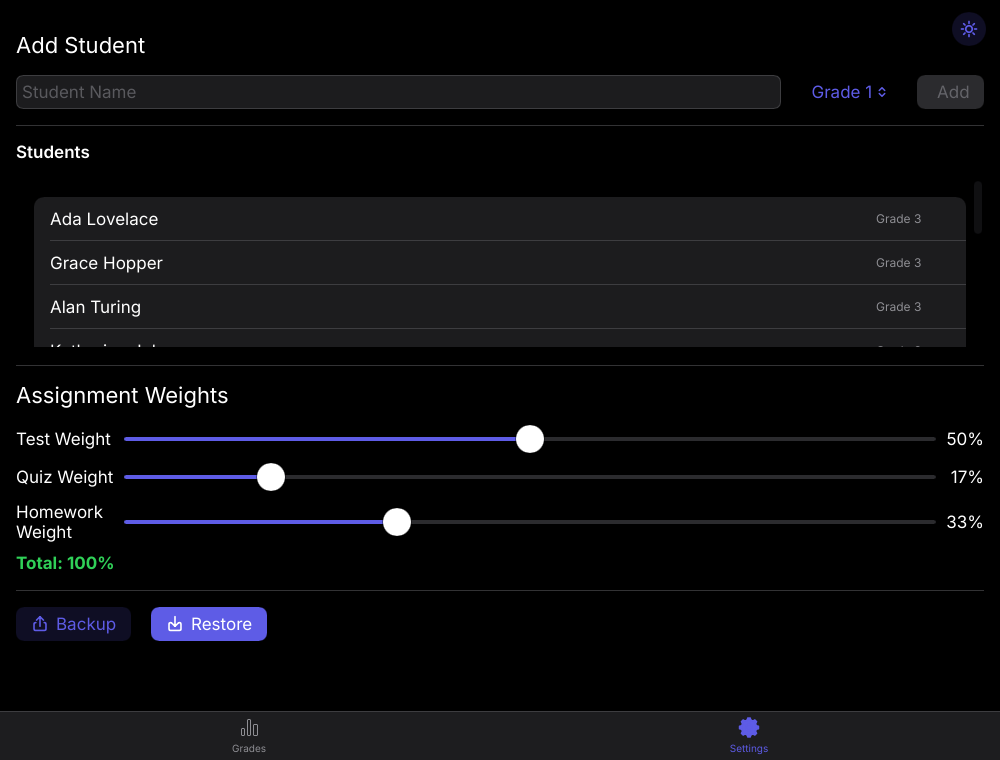
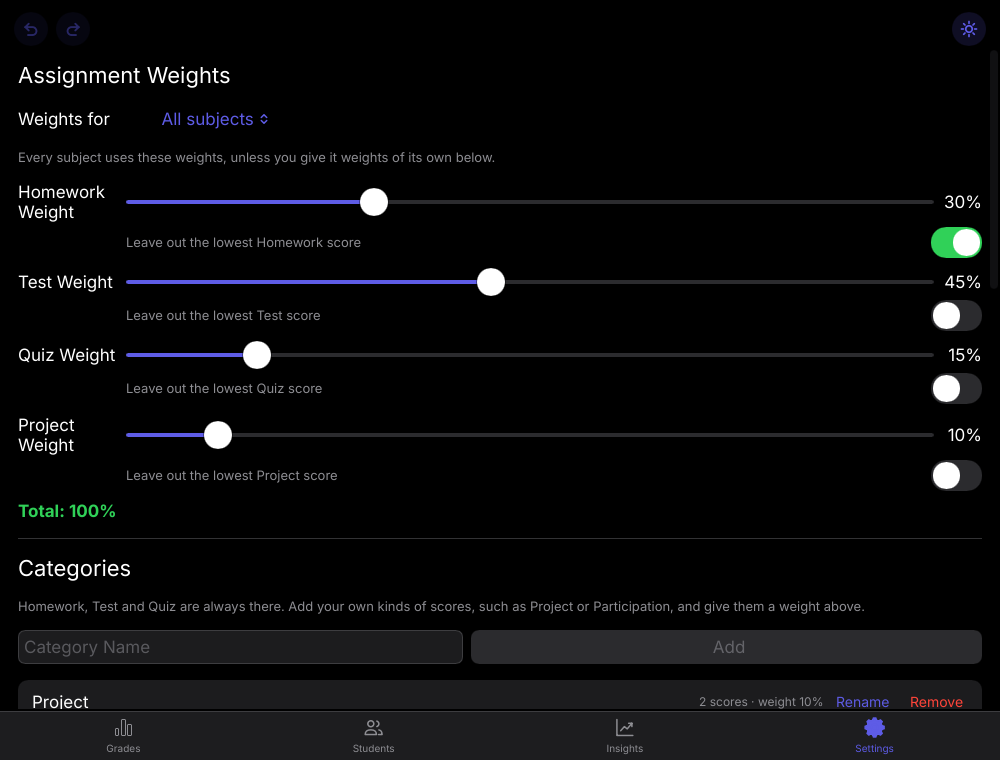
Refresh the README, screenshots and demo for the new tools
The README now covers the new screens, how scores are typed, the keyboard shortcuts, the
automatic backups and school years, spreadsheets and report cards, the opt-in update check
and the winget and Homebrew files. The screenshots show the Grades, Students, Insights and
Settings screens and the two dialogs, in light and dark, and the two demo recordings are of
the current app.

diff --git a/README.md b/README.md
@@ -1,4 +1,4 @@
-<!-- When you replace an image or GIF below, bump its ?v= number. VS Code's Markdown preview keeps showing the old picture while its URL is unchanged. -->
+<!-- When you replace an image or GIF below, bump its ?v= number on all of them. VS Code's Markdown preview keeps showing the old picture while its URL is unchanged. -->
 <div align="center">
 
 <img src="assets/icons/icon-128.png" alt="GradeBook icon" width="96" height="96">
@@ -6,7 +6,7 @@
 # GradeBook
 
 **A fast, friendly gradebook for teachers and homeschoolers.**<br>
-Weighted averages, letter grades and one-click backups, as a native app for Windows, macOS and Linux.
+Weighted averages, letter grades, insights, report cards and automatic backups, as a native app for Windows, macOS and Linux.
 
 [![Build](https://github.com/JMTDI/GradeBook/actions/workflows/desktop.yml/badge.svg)](https://github.com/JMTDI/GradeBook/actions/workflows/desktop.yml)
 ![Platforms: Windows, macOS and Linux](https://img.shields.io/badge/platforms-Windows%20%7C%20macOS%20%7C%20Linux-5856D6)
@@ -20,21 +20,29 @@ Weighted averages, letter grades and one-click backups, as a native app for Wind
 [Features](#features) · [Install](#install) · [Using the app](#using-the-app) · [Your data](#your-data) · [Build from source](#build-from-source)
 
 <picture>
-  <source media="(prefers-color-scheme: dark)" srcset="docs/demo-dark.gif?v=2">
-  <img src="docs/demo-light.gif?v=2" alt="GradeBook in action: a Homework, a Test and a Quiz grade are added in that order and the averages update, changing the weights in Settings updates them again, and the button in the corner switches between light and dark" width="760">
+  <source media="(prefers-color-scheme: dark)" srcset="docs/demo-dark.gif?v=4">
+  <img src="docs/demo-light.gif?v=4" alt="GradeBook in action: scores are added and Enter moves on to the next student, a click shows what a student needs on the next test, a deleted score comes back with Undo, the Insights screen sums up the class, the lowest homework score is left out of the average from Settings, and the button in the corner switches between light and dark" width="760">
 </picture>
 
 </div>
 
 ## Features
 
-- 📚 **Organised the way you teach.** Grade levels 1–10, six periods and 20 subjects, one class at a time.
-- ⚖ **Weighted averages.** Tests, quizzes and homework count as much as you decide (50 / 17 / 33 to begin with). The weights re-balance on their own for students who don't have every type of grade yet.
+- 📚 **Organised the way you teach.** Grade levels 1–10 (add Kindergarten and grades 11–20 if you need them), six periods and 20 subjects plus your own, one class at a time.
+- ⚖ **Weighted averages.** Homework, tests, quizzes and categories of your own, such as Projects, count as much as you decide (50 / 17 / 33 to begin with), in every subject or in one. The weights re-balance on their own for students who don't have every kind of score yet.
+- 🧮 **Scores the way teachers write them.** Points like `18/20`, extra credit like `+5`, excused scores (`EX`), and an option to leave out the lowest score of a kind.
 - 🔤 **Letter grades that add up.** From A+ to F, including fractional scores: 91.5 is a B and 99.5 is an A.
+- 🎯 **"What do I need?"** Pick a letter and see the score a student needs on the next test, quiz or homework to reach it.
+- 📊 **Insights.** The class average, the best and the lowest, how the letters are spread, who needs attention, and how the class average moved over the periods.
+- 🧾 **Report cards.** Every subject and period of a student on one page, saved as a spreadsheet or opened as a page you print.
+- ⌨ **Quick to fill in.** Enter adds a score and moves on to the next student, and a class list pasted from a document or spreadsheet adds all its students at once.
+- ↩ **Undo and redo.** For everything you change, from the keyboard or with the buttons in the corner. A bar offers to take back what you just did.
+- 🛟 **Your data is safe.** Every change is saved at once, in a way that can't leave a half-written file behind. The first start of each day keeps a copy, the latest seven are kept, and Backup and Restore move the whole gradebook as one file.
+- 🗓 **A new school year in one click.** It keeps a copy of the year that ends, clears the scores and moves the students up a grade.
 - 🌗 **Light and dark.** It follows your system's setting, and a button in the corner switches it. GradeBook remembers your choice.
-- 💾 **Saves as you go.** Every change is written to disk straight away, in a way that can't leave a half-written file behind.
-- 🛟 **Backup and Restore.** The whole gradebook goes into one JSON file, and a restore keeps a safety copy of whatever it replaces.
 - ⚡ **Light on your computer.** A native Rust app built with [Slint](https://slint.dev): no browser engine and no GPU needed. On Linux the window opens in about half a second and the app idles at around 20 MB of memory.
+- 🔒 **Private.** It works offline and never sends your data anywhere. The one thing that goes online is the look for a new version, which reads a version number from GitHub and sends nothing of yours. You can turn it off.
+- 🔔 **Tells you about updates.** GradeBook looks on GitHub for a newer release each time it starts. When there is one, a bar with a **Download** button appears above the tabs.
 - 📦 **Installers for every system.** A Windows `.exe`, a macOS universal `.dmg`, and a Linux `.deb` and AppImage.
 
 ## Install
@@ -53,52 +61,154 @@ Download the installer for your system from the [Releases page](https://github.c
 > - **Windows:** SmartScreen may say "Windows protected your PC". Choose **More info → Run anyway**.
 > - **macOS:** the app isn't notarized, so the first time, right-click it and choose **Open** (or run `xattr -dr com.apple.quarantine /Applications/GradeBook.app`).
 
+GradeBook tells you when a new version is out (see [Updates](#updates)). Close it, then install the
+new version the way you installed the first one. Your gradebook is kept in its own folder, which
+installing doesn't touch.
+
 Backup and Restore open your system's file chooser. On Linux that is the desktop portal
 (`xdg-desktop-portal`), falling back to `zenity`.
 
 ## Using the app
 
-Two screens, with a tab bar at the bottom to switch between them.
+Four screens, with a tab bar at the bottom to switch between them. In the top-left corner, **Undo**
+and **Redo** take back and bring back your changes; in the top-right corner, the moon or sun button
+switches between light and dark.
 
 ### Grades
 
-Choose a grade level (1–10), a period (1–6) and a subject (20 to choose from). Every student in that
-grade level gets a row. Choose **Homework**, **Test** or **Quiz**, type a score (decimals work:
-`92.5`, or `92,5`) and click **Add**. Scores appear as chips tinted by type (grey for homework, red
-for tests, blue for quizzes) with their letter grade, and the red × beside a score deletes it. Under
-the chips is the student's weighted average with its letter grade, and the class average is at the
-bottom.
+Choose a grade level, a period (1–6) and a subject. Every student in that grade level gets a row.
+Choose **Homework**, **Test** or **Quiz** (or a category of your own), type a score and press
+<kbd>Enter</kbd>: the score is added and the keyboard moves on to the next student's field, so a
+whole class goes in without touching the mouse.
+
+A score can be typed as:
+
+| Type | To mean |
+|---|---|
+| `92.5` or `92,5` | 92.5 percent |
+| `18/20` | points: 18 out of 20, which is 90 percent |
+| `+5` | extra credit: five bonus points added to the total of its kind |
+| `EX` | excused: shown, but not counted for or against the student |
+
+Scores appear as chips tinted by kind (grey for homework, red for tests, blue for quizzes, and a
+colour of its own for each category you add) with their letter grade. Click a chip to change its
+score or kind, or to delete it; the red × beside it deletes it at once. Under the chips is the
+student's weighted average with its letter grade, and the class average is at the bottom.
+
+Two buttons sit under each student:
+
+- **What do I need?** Pick the average you want, such as a B, and choose homework, test or quiz:
+  GradeBook tells you the lowest score on the next one that gets there. If nothing can, it says so.
+- **Report Card** shows every subject the student has scores in, period by period, with their
+  overall average. **Save as CSV** writes it as a spreadsheet and **Printable Report** opens it as a
+  page in your browser, where you can print it or save it as a PDF.
 
 <p align="center">
   <picture>
-    <source media="(prefers-color-scheme: dark)" srcset="docs/screenshots/grades-dark.png?v=2">
-    <img src="docs/screenshots/grades.png?v=2" alt="The Grades screen: every student in a grade level with their scores, averages and letter grades" width="640">
+    <source media="(prefers-color-scheme: dark)" srcset="docs/screenshots/grades-dark.png?v=4">
+    <img src="docs/screenshots/grades.png?v=4" alt="The Grades screen: every student in a grade level with their scores, averages and letter grades, and a struck-through score that is left out of the average" width="640">
+  </picture>
+</p>
+
+<p align="center">
+  <picture>
+    <source media="(prefers-color-scheme: dark)" srcset="docs/screenshots/needed-dark.png?v=4">
+    <img src="docs/screenshots/needed.png?v=4" alt="What does Grace Hopper need? The score she needs on her next test to reach a C+" width="400">
+  </picture>
+  <picture>
+    <source media="(prefers-color-scheme: dark)" srcset="docs/screenshots/report-dark.png?v=4">
+    <img src="docs/screenshots/report.png?v=4" alt="A report card: every subject, period by period, with the overall average" width="400">
+  </picture>
+</p>
+
+### Students
+
+Add a student with a name and a grade level, or use **Paste a Class List** to add a whole class at
+once: one name per line, with numbers or bullets at the start of a line ignored. A column copied
+from a spreadsheet works too, and you see how many students will be added before you confirm.
+
+The pencil beside a student changes their name or grade level. To delete a student, hover over the
+row and click the red minus (or focus the row and press <kbd>Delete</kbd>), then confirm with the
+red **Delete** button. Deleting a student deletes their scores too, and **Undo** brings them back.
+
+<p align="center">
+  <picture>
+    <source media="(prefers-color-scheme: dark)" srcset="docs/screenshots/students-dark.png?v=4">
+    <img src="docs/screenshots/students.png?v=4" alt="The Students screen: add a student or paste a class list, and the list of students" width="640">
+  </picture>
+</p>
+
+### Insights
+
+A summary of the class you chose on the Grades screen: the class average, the highest and the lowest
+average (with whose they are), and the median; how many students have each letter, A to F; the
+students under an average you choose with the slider (70 to begin with, and GradeBook remembers it);
+and the class average in each of the six periods, to see whether the class is going up or down.
+
+<p align="center">
+  <picture>
+    <source media="(prefers-color-scheme: dark)" srcset="docs/screenshots/insights-dark.png?v=4">
+    <img src="docs/screenshots/insights.png?v=4" alt="The Insights screen: the class average, the best and the lowest, how the letters are spread, who needs attention, and the class average by period" width="640">
   </picture>
 </p>
 
 ### Settings
 
-Add students (a name and a grade level), set the weights of tests, quizzes and homework
-(50 / 17 / 33 to begin with; the total is shown), and use Backup and Restore. To delete a student,
-hover over the row and click the red minus (or focus the row and press <kbd>Delete</kbd>), then
-confirm with the red **Delete** button.
+- **Assignment weights.** Set how much homework, tests, quizzes and each category of your own count
+  (50 / 17 / 33 for the first three to begin with; the total is shown). They apply to every subject
+  until you choose one subject in the list at the top and give it weights of its own: Spelling
+  might count quizzes more than Math does. **Use the Default Weights** takes a subject back. Each
+  kind also has a switch to **leave out the lowest score** of that kind in the averages, which
+  shows on the Grades screen as a struck-through chip.
+- **Categories.** Add kinds of scores of your own, such as Project or Participation. A new one has no
+  weight until you give it one. You can rename or remove them; removing one that has scores asks first.
+- **Subjects.** The 20 usual subjects are always there. Add the ones you teach that aren't.
+- **Grade levels.** Grades 1 to 10 are always there. Add Kindergarten or any grade from 11 to 20.
+- **Your data.** Backup, Restore, **Open Data Folder**, **Export Scores (CSV)** (every score in the
+  gradebook as a spreadsheet), the automatic backups, and **Start a New School Year**. More on these
+  [below](#your-data).
+- **About.** The version.
+- **Updates.** A switch for the look for a new version when GradeBook starts (on to begin with),
+  and **Check for Updates** to look right away. More on this [below](#updates).
 
 <p align="center">
   <picture>
-    <source media="(prefers-color-scheme: dark)" srcset="docs/screenshots/settings-dark.png?v=2">
-    <img src="docs/screenshots/settings.png?v=2" alt="The Settings screen: add students, set the weights, and back up or restore" width="640">
+    <source media="(prefers-color-scheme: dark)" srcset="docs/screenshots/settings-dark.png?v=4">
+    <img src="docs/screenshots/settings.png?v=4" alt="The Settings screen: the weights, with a switch to leave out the lowest score of each kind" width="640">
   </picture>
 </p>
 
+### Undo, redo and the keyboard
+
+Everything you change can be undone: scores, students, weights, categories, subjects, a restore and
+even a new school year. GradeBook keeps the last 100 steps until you quit. **Undo** and **Redo** in the
+corner do it with the mouse, and a bar at the bottom offers to take back the change you just made.
+
+| To | Press |
+|---|---|
+| Undo | <kbd>Ctrl</kbd>+<kbd>Z</kbd> (<kbd>⌘</kbd>+<kbd>Z</kbd> on a Mac) |
+| Redo | <kbd>Ctrl</kbd>+<kbd>Y</kbd> or <kbd>Ctrl</kbd>+<kbd>Shift</kbd>+<kbd>Z</kbd> (<kbd>⌘</kbd>+<kbd>Shift</kbd>+<kbd>Z</kbd> on a Mac) |
+| Add a score and go to the next student | <kbd>Enter</kbd> in a student's score field |
+| Close a dialog without saving | <kbd>Esc</kbd> |
+
+In a field with text in it, <kbd>Ctrl</kbd>+<kbd>Z</kbd> undoes your typing first, as it always does;
+in an empty field it undoes the last change to the gradebook. While a dialog is open, nothing behind
+it can be undone.
+
 ### How averages work
 
-The scores of each type are averaged first, then combined using the weights. The weights are
-re-balanced over the types a student has scores for, so a student with only tests is graded on tests
-alone.
+The scores of each kind are averaged first, then combined using the weights. The weights are
+re-balanced over the kinds a student has scores for, so a student with only tests is graded on tests
+alone. Extra credit adds its points to the total of its kind (`+5` on top of three scores raises that
+kind's average by about 1.7), and only once the kind has a score to add it to. Excused scores are left
+out. If a kind is set to leave out the lowest score, that is done when a student has at least two.
 
 For example, Ada in the Grades screenshot above has tests of 96 and 92.5 (average 94.25), quizzes of
-88 and 100 (average 94) and eight homework scores that average 94.56. With the default weights
-that makes 0.50 × 94.25 + 0.17 × 94 + 0.33 × 94.56 ≈ 94.3, an A−.
+88 and 100 (average 94) and homework that averages 96.07 once her lowest score, the 84, is left out
+(her `EX` isn't counted). This gradebook gives tests 45, quizzes 15, homework 30 and projects 10,
+but Ada's only Project entry is `+5` of extra credit, with no project score to add it to, so projects
+don't count for her and the weights re-balance over the other three kinds:
+(45 × 94.25 + 15 × 94 + 30 × 96.07) ÷ 90 ≈ 94.8, an A−.
 
 ### Letter grades
 
@@ -110,7 +220,7 @@ average always matches the rounded number displayed.
 | **From** | 100 | 96 | 94 | 92 | 88 | 86 | 84 | 79 | 76 | 70 | 63 | 0 |
 
 > [!TIP]
-> GradeBook follows your system's light or dark setting. To switch, click the moon or sun button in the top-right corner of either screen; GradeBook remembers your choice. To start in one or the other no matter what, set the `GRADEBOOK_THEME` environment variable to `light` or `dark`.
+> GradeBook follows your system's light or dark setting. To switch, click the moon or sun button in the top-right corner of any screen; GradeBook remembers your choice. To start in one or the other no matter what, set the `GRADEBOOK_THEME` environment variable to `light` or `dark`.
 
 ## Your data
 
@@ -122,13 +232,23 @@ GradeBook saves after every change, in `gradebook.json` in:
 | macOS | `~/Library/Application Support/com.jmtditech.gradebook` |
 | Linux | `~/.local/share/gradebook` |
 
-`gradebook --data-dir` prints the exact folder on Linux (on macOS run
-`/Applications/GradeBook.app/Contents/MacOS/gradebook --data-dir`; the Windows build has no
-console window, so use the folder above). Set `GRADEBOOK_DATA_DIR` to keep the data somewhere
-else (for example on a USB stick). Uninstalling never deletes it.
+**Open Data Folder** in Settings takes you there. `gradebook --data-dir` prints the exact folder on
+Linux (on macOS run `/Applications/GradeBook.app/Contents/MacOS/gradebook --data-dir`; the Windows
+build has no console window, so use the folder above). Set `GRADEBOOK_DATA_DIR` to keep the data
+somewhere else (for example on a USB stick). Uninstalling never deletes it.
 
-A small `settings.json` next to `gradebook.json` remembers your light or dark choice. It isn't part
-of a Backup.
+A small `settings.json` next to `gradebook.json` remembers your light or dark choice, the line you
+drew on the Insights screen and whether to look for updates. It isn't part of a Backup.
+
+The file format is the one earlier versions used, so their files open as they are. A file only gets
+new entries (your own categories, subjects and grade levels, and the grading options) once you use
+those features.
+
+### Automatic backups
+
+The first time you start GradeBook each day, it copies your data into the `backups` folder next to
+`gradebook.json`, as `gradebook-<date>.json`, and keeps the seven newest. To go back to one, choose
+it with **Restore**. A damaged data file is never copied.
 
 ### Backup and Restore
 
@@ -136,7 +256,45 @@ In Settings, **Backup** writes a `GradeBookBackup.json` file and **Restore** rea
 keep a copy of your gradebook or move it to another computer. Restoring replaces everything, so the
 app asks first and saves a copy of the data it replaces next to `gradebook.json`, as
 `gradebook.before-restore-<time>.json` (one per restore, never overwritten). If that copy can't be
-saved, the restore doesn't go ahead.
+saved, the restore doesn't go ahead. You can also undo a restore until you quit.
+
+### A new school year
+
+**Start a New School Year** (Settings, under Your Data) saves a copy of everything as
+`backups/school-year-<date>.json`, which is never deleted or overwritten, then clears every score and
+moves each student up a grade. Students in the highest grade stay where they are, and your weights,
+categories and subjects are kept. If the copy can't be saved, nothing changes. Until you quit, you
+can undo it.
+
+### Spreadsheets and reports
+
+**Export Scores (CSV)** writes every score in the gradebook, one per line, with its student,
+subject, period, kind, percentage and letter, and whether it counts. A report card has its own CSV
+and a printable page; the page is saved in your computer's temporary folder and opened in your
+browser, and GradeBook deletes the ones that are more than a day old when it starts.
+Both CSV files open in Excel, Numbers and Google Sheets.
+
+### Updates
+
+Each time it starts, GradeBook looks on GitHub for a newer release. When there is one, a bar appears
+above the tabs with its version number and a **Download** button, which opens the release page in
+your browser, where the installers are. The cross hides the bar until GradeBook starts again.
+
+<p align="center">
+  <picture>
+    <source media="(prefers-color-scheme: dark)" srcset="docs/screenshots/update-dark.png?v=4">
+    <img src="docs/screenshots/update.png?v=4" alt="The bar above the tabs that says GradeBook 9.0.0 is available, with a Download button and a cross that hides it" width="640">
+  </picture>
+</p>
+
+Under **Updates** in Settings, a switch turns the look at start off, and **Check for Updates** looks
+right away and says what it found. That brings the bar back if you had hidden it.
+
+The look asks GitHub for the latest release of this project, with `curl`, or with `wget` where there
+is no `curl` (Windows, macOS and most Linux systems have one). It only reads the version number:
+nothing about you or your gradebook is sent, although GitHub sees the request as it sees any visit
+to a web page. Nothing is downloaded or installed by itself. Without a network connection GradeBook
+says nothing, and **Check for Updates** tells you it couldn't look.
 
 ### If something goes wrong
 
@@ -213,8 +371,12 @@ A release is made by hand, and you choose its version number:
 The workflow builds the installers on Windows, macOS and Linux, checks that each one reports the
 version you typed, then publishes a GitHub release named `v1.2.0` with the four installers, a
 `SHA256SUMS.txt` file and release notes that it writes itself. If anything fails, nothing is
-published. Pushes and pull requests build the installers too, but publish nothing: find them
-under **Artifacts** on the run's page.
+published. Pushes and pull requests build the installers too, but publish nothing: find them under
+**Artifacts** on the run's page.
+
+A published release reaches people by itself: every GradeBook that looks for updates (see
+[Updates](#updates)) shows the bar for it the next time it starts. Drafts and pre-releases aren't
+offered.
 
 The other choices in the form:
 
@@ -264,10 +426,13 @@ needs in order to run it at all.
 
 ```
 src/        model.rs, calc.rs, book.rs, view.rs  the gradebook logic (no UI)
-            store.rs                             data file, Backup/Restore files
-            app.rs                               connects the UI to the logic
-ui/         *.slint                              the screens and controls
+            export.rs                            CSV files and the printable report
+            store.rs, prefs.rs                   the data file, backups and settings.json
+            update.rs, system.rs                 the update check, opening folders and pages
+            app.rs, app/                         connects the UI to the logic
+ui/         *.slint                              the screens, dialogs and controls
 tests/      interaction.rs, screenshots.rs       headless UI tests
+            packaging.rs                         checks on the installer files
 packaging/  linux/, macos/, windows/             installers
             set-version.sh, release-notes.py     used by the release workflow
 assets/     icons/                               the app icons
